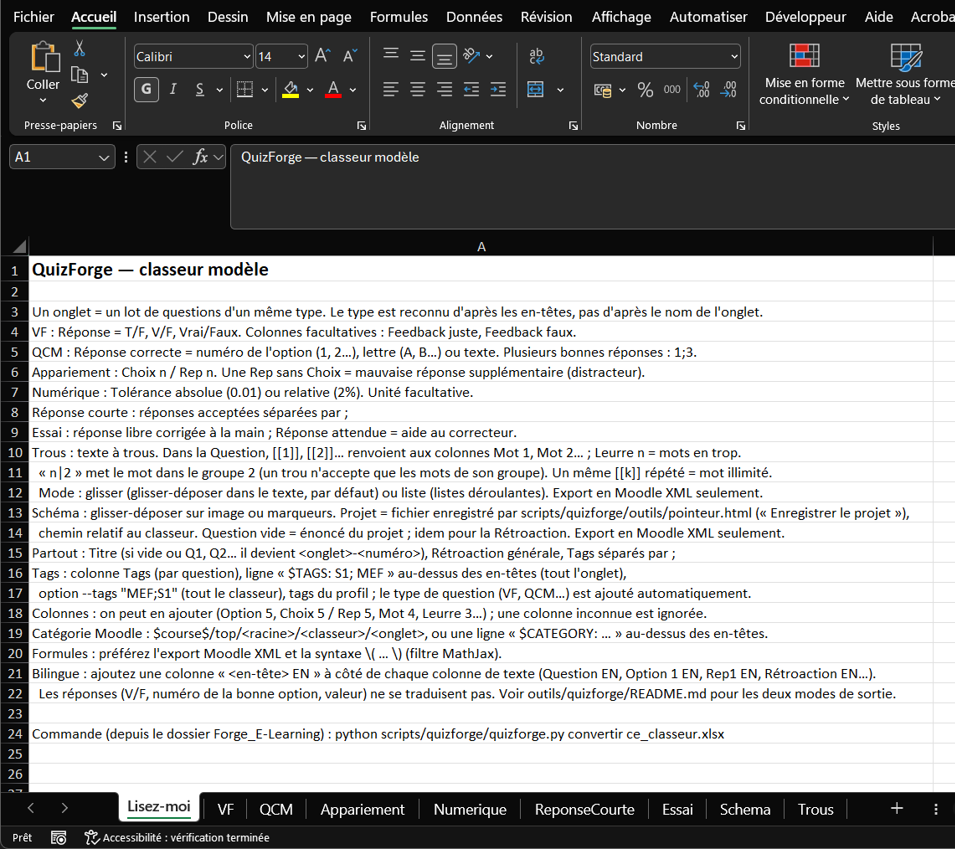
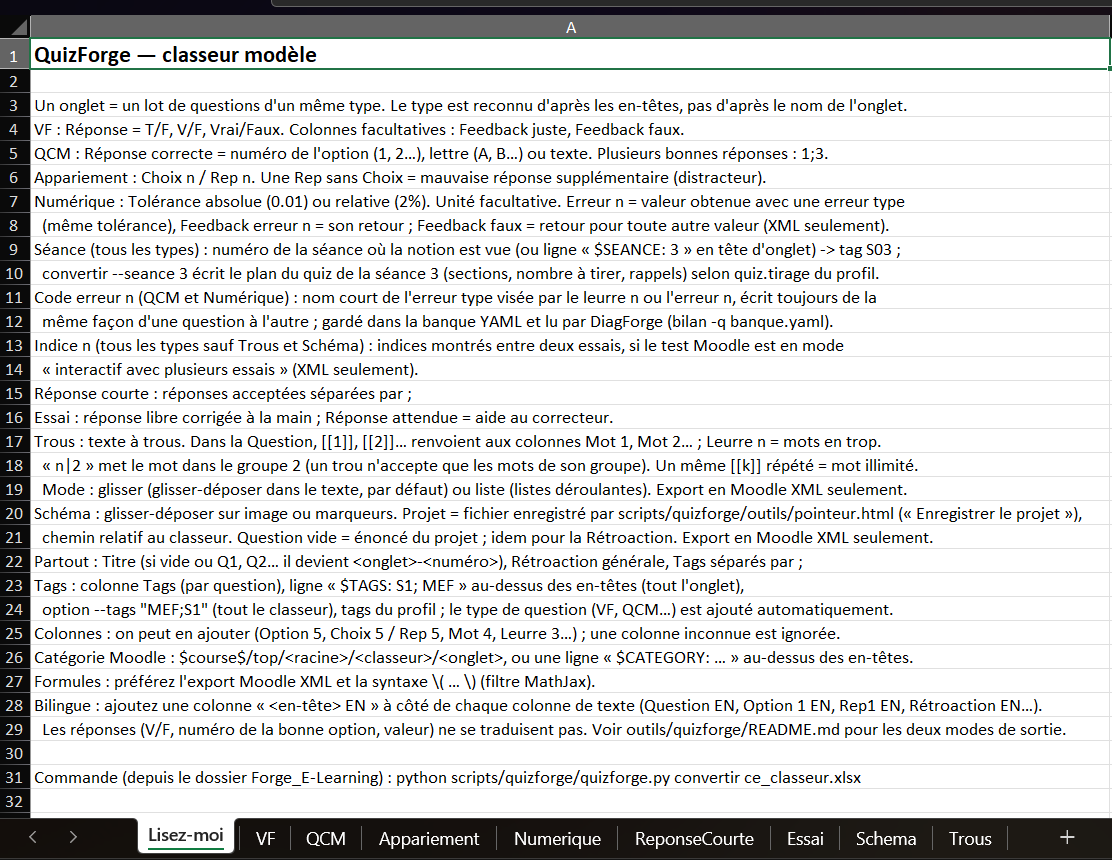
Maj des captures d'écran pour les modes d'emplois

diff --git a/scripts/capsuleforge/lecteur_chapitre.html b/scripts/capsuleforge/lecteur_chapitre.html
@@ -613,7 +613,11 @@ let enQuiz = false;
 const cleQ = (p, s, k) => cleSec(p, s) + "#q" + k;
 const toutesFaites = (p, s) => [...Array(s.questions).keys()].every(k => faits.has(cleQ(p, s, k)));
 const melange = t => { t = [...t]; for (let i = t.length - 1; i > 0; i--) { const j = Math.floor(Math.random() * (i + 1)); [t[i], t[j]] = [t[j], t[i]]; } return t; };
-const nombre = v => { const x = parseFloat(String(v).replace(/\s/g, "").replace(",", ".")); return isFinite(x) ? x : null; };
+const nombre = v => {                                       // 50 ; 0,25 ; 5000/100 ; 2.5e-3 ; « 50 MPa » (unité finale ignorée) — comme lireNombre d'ExoForge
+  const m = String(v).replace(/\s/g, "").replace(/,/g, ".").match(/^([0-9.+\-*/()eE]*[0-9.)])([^0-9.+\-*/()].*)?$/);
+  if (!m) return null;
+  try { const x = Function('"use strict";return (' + m[1] + ');')(); return typeof x === "number" && isFinite(x) ? x : null; } catch (e) { return null; }
+};
 function questions(refaire) {
   const p = S.p, s = S.s, tirees = s.lots.flatMap(l => melange(l.questions).slice(0, l.nombre)), regle = parcours ? parcours.questions : "proposees";
   const resultats = []; let k = 0; enQuiz = true;

diff --git a/scripts/capsuleforge/construire_chapitre.py b/scripts/capsuleforge/construire_chapitre.py
@@ -184,6 +184,14 @@ def fiche_exoforge(nom: str, dossier: Path) -> Path | None:
     return trouves[0] if trouves else None
 
 
+PREFIXE_EXERCICE = re.compile(r"^\s*(?:exercice|exercise)\s*:\s*", re.IGNORECASE)   # \s couvre les espaces insécables
+
+
+def sans_prefixe_exercice(titre: str) -> str:
+    """Titre d'une fiche ExoForge sans « Exercice : » en tête : le lecteur l'ajoute déjà devant le titre."""
+    return PREFIXE_EXERCICE.sub("", titre or "").strip()
+
+
 def exercices_partie(p: dict, dossier: Path, sortie: Path, journal=print, trad_ext: dict | None = None,
                      perimees: list | None = None) -> list[dict]:
     """Renvoie les exercices ExoForge d'une partie sous forme de sections « exercice » du lecteur (HTML de l'exercice inclus).
@@ -238,8 +246,9 @@ def exercices_partie(p: dict, dossier: Path, sortie: Path, journal=print, trad_e
                 html_tr[l] = t
             e = d.get(f"exercice/{ident}/titre")
             if e and not ref.get("titre"):
-                tr_titre[l] = {"titre": e["cible"]}
-        sections.append({"id": "exo-" + ident, "titre": F.texte(ref.get("titre") or cfg.get("titre") or ident), "tr": tr_titre,
+                tr_titre[l] = {"titre": sans_prefixe_exercice(e["cible"])}
+        titre = ref.get("titre") or sans_prefixe_exercice(F.texte(cfg.get("titre") or "")) or ident
+        sections.append({"id": "exo-" + ident, "titre": F.texte(titre), "tr": tr_titre,
                          "objectif": F.texte(ref.get("objectif") or ""), "ouverture": "", "arret": True, "annexes": [],
                          "questions": 0, "lots": [], "duree_s": float(duree) * 60, "pas": [],
                          "exercice": {"id": ident, "base": f"exercices/{ident}/", "etapes": etapes, "html": code, "html_tr": html_tr,

diff --git a/outils/capsuleforge/README.md b/outils/capsuleforge/README.md
@@ -76,6 +76,8 @@ capsuleforge relire fiabilite                  (ou CapsuleForge.bat, choix 7)
 
 Ouvre dans le navigateur la diapositive, le son et le texte dit, phrase par phrase. On corrige une phrase en l'écoutant (bouton ▶ de la phrase), on la coupe au curseur (Ctrl+Entrée), on la fusionne avec la suivante, on règle son début sur l'instant de lecture. Les apparitions se posent à l'instant de lecture, au début d'une phrase, ou en faisant glisser leur repère rouge sur la piste. « Relu » marque le pas comme relu par l'auteur.
 
+![L'écran de relecture : diapositive à l'instant de lecture, piste avec les repères d'apparition, phrases horodatées à droite, apparitions et ajouts sur l'image en dessous (chapitre de démonstration)](../../_static/captures/capsuleforge/relecture.png)
+
 Sous la piste, « Ajouter » pose sur l'image ce que le diaporama n'a pas : un **spot** (zone éclairée, le reste assombri), un **cadre**, un **pointeur** (point lumineux) ou un **cache** (zone masquée jusqu'à un instant donné, pour une apparition absente du diaporama). On place le curseur dans une phrase, on choisit le type, on trace sur l'image : l'ajout prend le début et la durée de la phrase. Il se déplace à la souris, se règle dans la liste, se supprime par Suppr.
 
 Touches : Échap lit ou met en pause (même depuis un texte), Alt+↑ ou ↓ joue la phrase voisine, Ctrl+S enregistre. « Enregistrer et quitter » arrête la relecture et libère la fenêtre de commande ; fermer l'onglet a le même effet au bout de quelques secondes.
@@ -116,9 +118,15 @@ capsuleforge construire fiabilite
 
 Pour un dossier qui contient `chapitre.yaml` sans `capsule.yaml`, la commande produit `dist/capsuleforge/<nom>/index.html` : plan du chapitre à gauche (sections vues, à venir), choix du parcours, image avec ses apparitions, spots, cadres, pointeurs et caches, sous-titres tirés des phrases, texte de la section cliquable, vitesse, plein écran. La lecture s'arrête en fin de section et propose la suivante ; l'avancement est gardé dans le navigateur. Les images sont converties en WebP et les sons en MP3 mono (environ 0,5 Mo par minute) ; `--audio origine` recopie les sons tels quels. En fin de section, le lecteur pose les questions tirées de la banque QuizForge désignée par la section (vrai/faux, QCM, numérique), avec leurs rétroactions ; « proposées », elles peuvent être passées, « obligatoires », non. En tête du plan : trois jauges (vue d'ensemble, approfondissements, pratique) et un disque par partie (secteurs = sections lues, anneau ondulé = pratique, badge quand tout est fait).
 
+![Le lecteur de chapitre : plan avec jauges et disques à gauche, diapositive avec une apparition, un spot et le sous-titre, barre de lecture (chapitre de démonstration)](../../_static/captures/capsuleforge/lecteur_section.png)
+
+![Question de fin de section : rétroaction du leurre choisi, puis rétroaction générale](../../_static/captures/capsuleforge/lecteur_questions.png)
+
 #### Exercices ExoForge
 
 Une partie peut porter un exercice ExoForge : `exercice: {outil: exoforge, fiche: fiabilite_coef_securite.yaml, duree_min: 15}` (fiche cherchée à côté du chapitre, puis dans `data/exoforge`). À la construction, la fiche est reconstruite par ExoForge si elle (ou le moteur) a changé, ses fichiers sont copiés dans `exercices/<id>/` à côté du lecteur, et l'exercice devient la dernière section de la partie. Une annexe peut porter du cours et un exercice ; une partie `type: exercice` peut n'avoir aucune section et s'appelle comme une annexe (`annexes: [exo_biellette]` sur une section). L'exercice n'est proposé que par les parcours `exercices: true` (Lecture immersive). Le lecteur l'affiche dans un cadre et lui sert de plateforme SCORM : terminé, il compte dans « Pratique », et le plan affiche le meilleur score ; les réponses sont gardées dans le navigateur (journal `exercices`) pour les futures traces.
+
+![Un exercice ExoForge dans le lecteur de chapitre, en Lecture immersive](../../_static/captures/capsuleforge/lecteur_exercice.png)
 
 #### Paquets SCORM pour Moodle
 

diff --git a/outils/diagforge/README.md b/outils/diagforge/README.md
@@ -8,7 +8,7 @@ DiagForge regroupe l'analyse de ce qui a été produit avec les outils Forge : r
 
 Le bilan lit les exports d'un test Moodle et produit, pour le professeur, un classeur d'analyse et une fiche de synthèse, et pour les étudiants, des images anonymes de la répartition des notes et de la réussite par thème. Il désigne les questions à revoir en priorité : celles qui fonctionnent mal (à reformuler) et les notions mal acquises (à retravailler en cours).
 
-La commande est `python scripts/diagforge/diagforge.py` ; elle équivaut à la commande `bilan` de [QuizForge](../quizforge/README.md) (`python scripts/quizforge/quizforge.py bilan`, mêmes options), qui lit le profil d'établissement. Code : [`scripts/diagforge/`](../../scripts/diagforge/README.md) (`bilan.py`, `bilan_sorties.py`, `graphiques.py`, `tirage.py`). Installation : [README du dépôt](https://github.com/Benoit2lattre/Forge_E-Learning#installation) (les images demandent `matplotlib`).
+La commande est `python scripts/diagforge/diagforge.py` ; elle équivaut à la commande `bilan` de [QuizForge](../quizforge/README.md) (`python scripts/quizforge/quizforge.py bilan`, mêmes options), qui lit le profil d'établissement. Code : [`scripts/diagforge/`](https://github.com/Benoit2lattre/Forge_E-Learning/tree/main/scripts/diagforge) (`bilan.py`, `bilan_sorties.py`, `graphiques.py`, `tirage.py`). Installation : [README du dépôt](https://github.com/Benoit2lattre/Forge_E-Learning#installation) (les images demandent `matplotlib`).
 
 ## Essai immédiat, sur une promotion fictive
 
